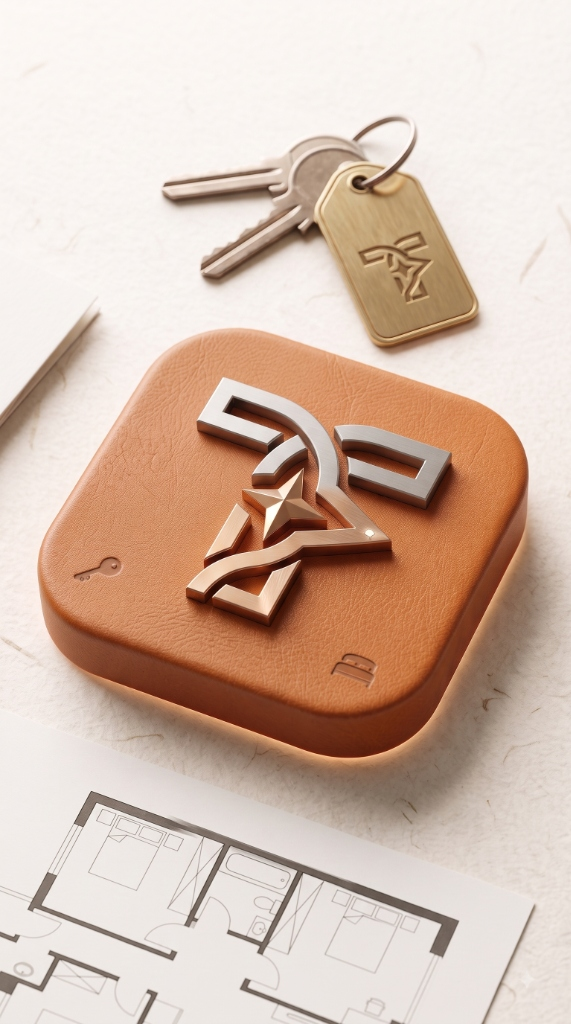
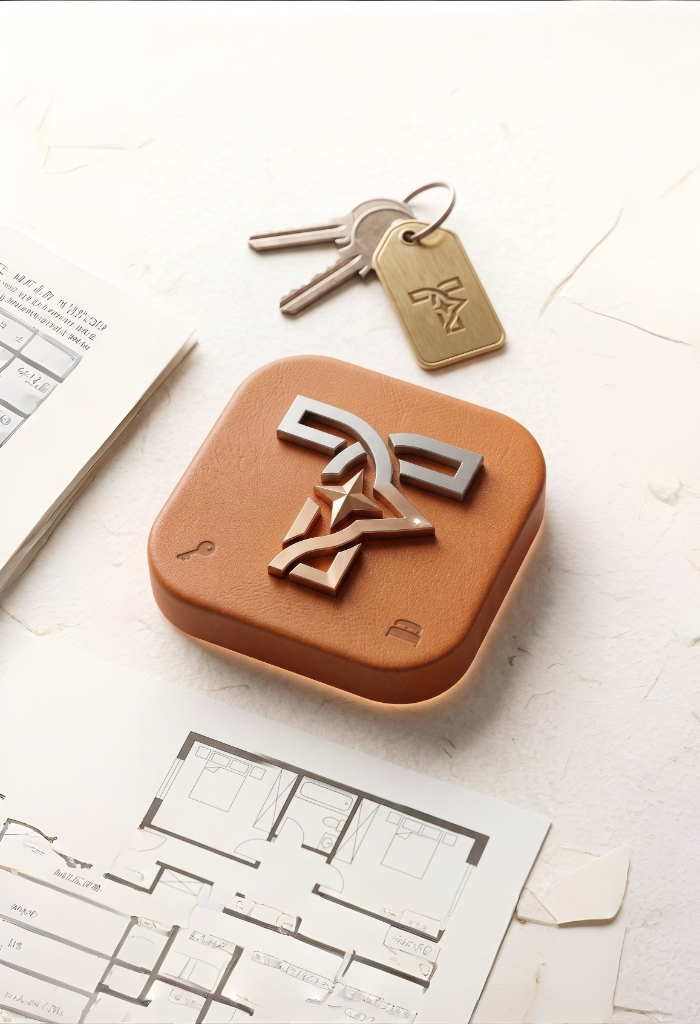
feat: use wider extended artwork with seamless edge-to-edge full height coverage

diff --git a/app/login/page.tsx b/app/login/page.tsx
@@ -286,18 +286,16 @@ export default function LoginPage() {
         </div>
 
         {/* ========================================================================= */}
-        {/* 🖥 DESKTOP LEFT COLUMN: Exact Full Resolution Framing (Zero Cropping)     */}
+        {/* 🖥 DESKTOP LEFT COLUMN: Edge-to-Edge Extended 3D Artwork Panel              */}
         {/* ========================================================================= */}
-        <div className="hidden lg:flex flex-1 relative min-h-screen bg-[#f7f4ee] items-center justify-center p-6 xl:p-10 overflow-hidden border-r border-[#e8dfd8]">
-          <div className="relative w-full h-full max-w-lg aspect-[9/16] max-h-[88vh] flex items-center justify-center">
-            <Image
-              src="/tenopilot-leather-emblem.jpg"
-              alt="TenoPilot 3D Leather Emblem Artwork"
-              fill
-              priority
-              className="object-contain object-center drop-shadow-xl"
-            />
-          </div>
+        <div className="hidden lg:block lg:flex-1 relative min-h-screen bg-[#f7f4ee] overflow-hidden border-r border-[#e8dfd8]">
+          <Image
+            src="/tenopilot-leather-emblem.jpg"
+            alt="TenoPilot 3D Leather Emblem Artwork"
+            fill
+            priority
+            className="object-cover object-center"
+          />
         </div>
 
         {/* ========================================================================= */}

diff --git a/app/signup/page.tsx b/app/signup/page.tsx
@@ -261,17 +261,15 @@ function SignUpPageContent() {
         <div className="absolute inset-0 bg-gradient-to-b from-[#f7f4ee]/85 via-[#f7f4ee]/90 to-[#f7f4ee]" />
       </div>
 
-      {/* 🖥 DESKTOP LEFT COLUMN: Exact Full Resolution Framing (Zero Cropping) */}
-      <div className="hidden lg:flex flex-1 relative min-h-screen bg-[#f7f4ee] items-center justify-center p-6 xl:p-10 overflow-hidden border-r border-[#e8dfd8]">
-        <div className="relative w-full h-full max-w-lg aspect-[9/16] max-h-[88vh] flex items-center justify-center">
-          <Image
-            src="/tenopilot-leather-emblem.jpg"
-            alt="TenoPilot 3D Leather Emblem Artwork"
-            fill
-            priority
-            className="object-contain object-center drop-shadow-xl"
-          />
-        </div>
+      {/* 🖥 DESKTOP LEFT COLUMN: Edge-to-Edge Extended 3D Artwork Panel */}
+      <div className="hidden lg:block lg:flex-1 relative min-h-screen bg-[#f7f4ee] overflow-hidden border-r border-[#e8dfd8]">
+        <Image
+          src="/tenopilot-leather-emblem.jpg"
+          alt="TenoPilot 3D Leather Emblem Artwork"
+          fill
+          priority
+          className="object-cover object-center"
+        />
       </div>
 
       {/* 🔑 RIGHT COLUMN: Ultra-Clean Magnific-Style Signup Card */}
